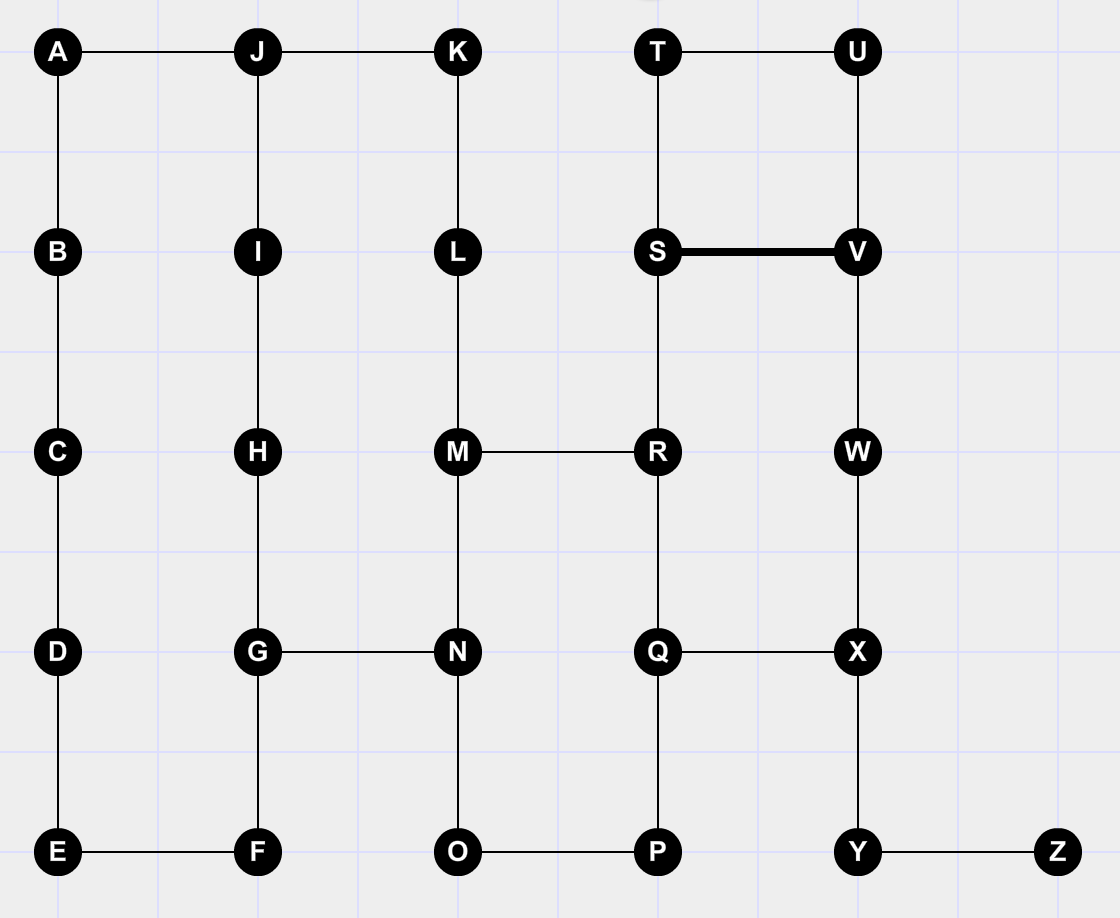
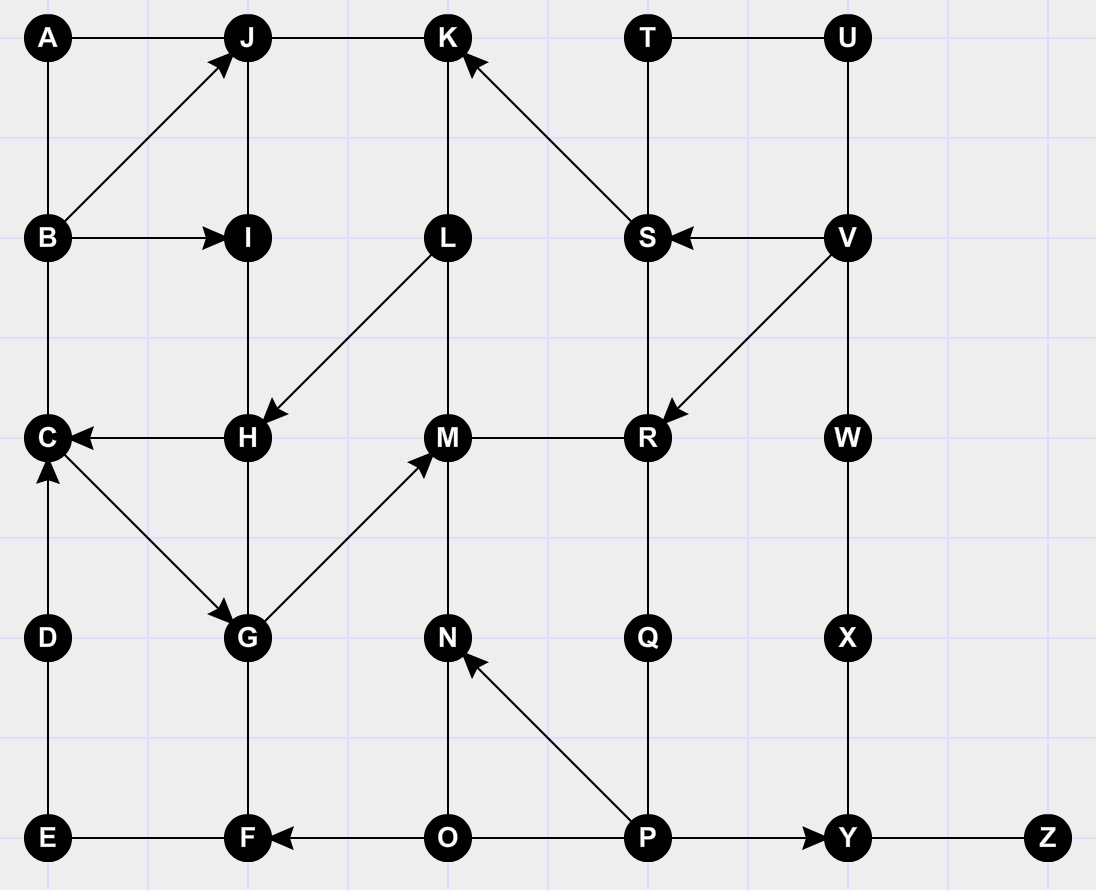
added another exercise image

diff --git a/README.md b/README.md
@@ -24,15 +24,17 @@ E is an example of Set of Ordered Pairs
 G represents the graph as 1 ordered pair.
 
 ### Exercise
-
-Find the quickest path from Vertex A to Vertex Z for each of the following:
-
+Find the quickest path from Vertex A to Vertex Z:
 ![img1](exerciseImages/img1.png)
 
+Find the quickest path from Vertex A to Vertex Z:
 ![img2](exerciseImages/img2.png)
 
+Find the longest path from Vertex A to Vertex Z:
 ![img3](exerciseImages/img3.png)
 
+Find the quickest path from Vertex A to Vertex Z:
 ![img4](exerciseImages/img4.png)
 
+Find the longest path from Vertex A to Vertex Z:
 ![img5](exerciseImages/img5.png)
